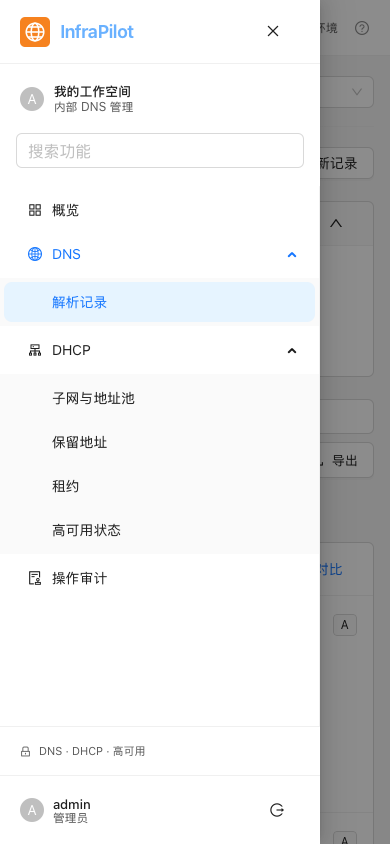
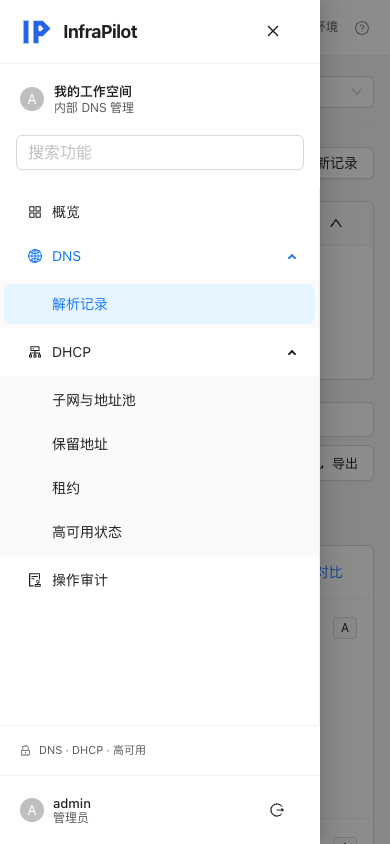
Redesign InfraPilot identity with a geometric IP mark

diff --git a/frontend/src/Workspace.vue b/frontend/src/Workspace.vue
@@ -12,6 +12,7 @@ import AuditView from "./views/AuditView.vue";
 import DhcpView from "./views/DhcpView.vue";
 import ThemeSwitcher from "./components/ThemeSwitcher.vue";
 import HelpHint from "./components/HelpHint.vue";
+import BrandIdentity from "./components/BrandIdentity.vue";
 const { message } = AntdApp.useApp();
 const meta = ref<Meta>(),
   user = ref<User>(),
@@ -189,9 +190,7 @@ onUnmounted(() => {
   </div>
   <div v-else-if="!user" class="login-layout">
     <ThemeSwitcher class="login-theme" />
-    <a class="brand login-brand" href="/"
-      ><img src="/favicon.svg" alt="" /><strong>InfraPilot</strong></a
-    >
+    <a class="brand login-brand" href="/"><BrandIdentity /></a>
     <section class="login-panel">
       <div class="login-form-wrap">
         <div class="heading-with-help">

diff --git a/frontend/src/style.css b/frontend/src/style.css
@@ -132,14 +132,23 @@ a:focus-visible {
   text-decoration: none;
   white-space: nowrap;
 }
-.brand img {
-  width: 30px;
-  height: 30px;
+.brand-identity {
+  display: inline-flex;
+  align-items: center;
+  gap: 9px;
 }
-.brand strong {
+.brand-mark {
+  display: block;
+  width: 34px;
+  height: 34px;
+  flex-shrink: 0;
+}
+.brand-wordmark {
+  color: var(--text);
   font-size: 18px;
-  font-weight: 650;
-  letter-spacing: -0.4px;
+  font-weight: 700;
+  letter-spacing: -0.5px;
+  line-height: 1;
 }
 .workspace-chip {
   display: flex;
@@ -887,6 +896,14 @@ a:focus-visible {
 }
 .login-brand {
   margin-bottom: 32px;
+}
+.login-brand .brand-mark {
+  width: 42px;
+  height: 42px;
+}
+.login-brand .brand-wordmark {
+  font-size: 24px;
+  letter-spacing: -0.7px;
 }
 .login-panel {
   width: 420px;

diff --git a/frontend/src/components/WorkspaceNavigation.vue b/frontend/src/components/WorkspaceNavigation.vue
@@ -11,6 +11,7 @@ import {
 } from "@ant-design/icons-vue";
 import { routes } from "../navigation";
 import type { User } from "../types";
+import BrandIdentity from "./BrandIdentity.vue";
 
 const props = defineProps<{ user: User; page: string; mobile?: boolean }>();
 const emit = defineEmits<{
@@ -36,7 +37,7 @@ const menu = computed(() =>
         href="#/overview"
         @click.prevent="emit('navigate', 'overview')"
       >
-        <img src="/favicon.svg" alt="" /><strong>InfraPilot</strong>
+        <BrandIdentity />
       </a>
       <a-button
         v-if="mobile"

diff --git a/frontend/index.html b/frontend/index.html
@@ -26,7 +26,18 @@
       })();
     </script>
     <title>InfraPilot · DNS 与 DHCP 管理</title>
-    <link rel="icon" type="image/svg+xml" href="/favicon.svg" />
+    <link
+      rel="icon"
+      type="image/png"
+      sizes="32x32"
+      href="/favicon-32.png?v=ip1"
+    />
+    <link rel="icon" type="image/svg+xml" href="/favicon.svg?v=ip1" />
+    <link
+      rel="apple-touch-icon"
+      sizes="180x180"
+      href="/apple-touch-icon.png?v=ip1"
+    />
   </head>
   <body>
     <div id="app"></div>

diff --git a/frontend/src/components/BrandIdentity.vue b/frontend/src/components/BrandIdentity.vue
@@ -1,0 +1,17 @@
+<script setup lang="ts">
+import mark from "../assets/infrapilot-mark.svg";
+</script>
+
+<template>
+  <span class="brand-identity">
+    <img
+      class="brand-mark"
+      :src="mark"
+      alt=""
+      aria-hidden="true"
+      width="34"
+      height="34"
+    />
+    <strong class="brand-wordmark">InfraPilot</strong>
+  </span>
+</template>

diff --git a/README.md b/README.md
@@ -1,5 +1,7 @@
 # InfraPilot
 
+![InfraPilot 标识](docs/screenshots/identity.png)
+
 基于 **Java 21 / Spring Boot + Vue 3 / Ant Design Vue** 的 BIND DNS / Kea DHCP 管理面板，前后端独立构建、独立部署。
 
 通过 AXFR 读取区域，使用 RFC2136 + TSIG 原子更新记录集。BIND 继续负责主从同步和 DNSSEC 签名；Kea 继续管理客户端 DDNS。
